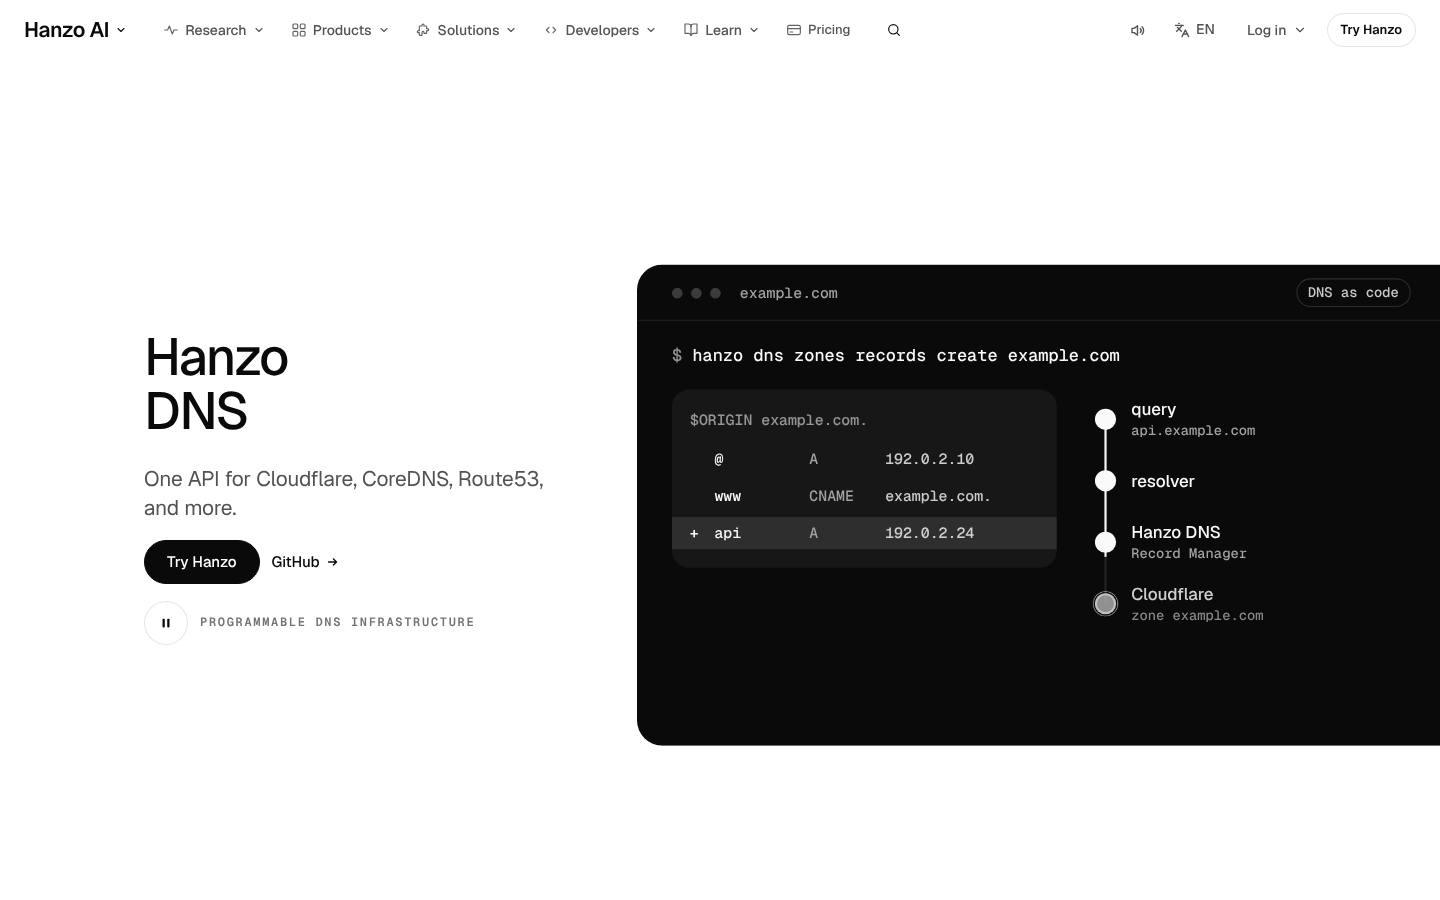
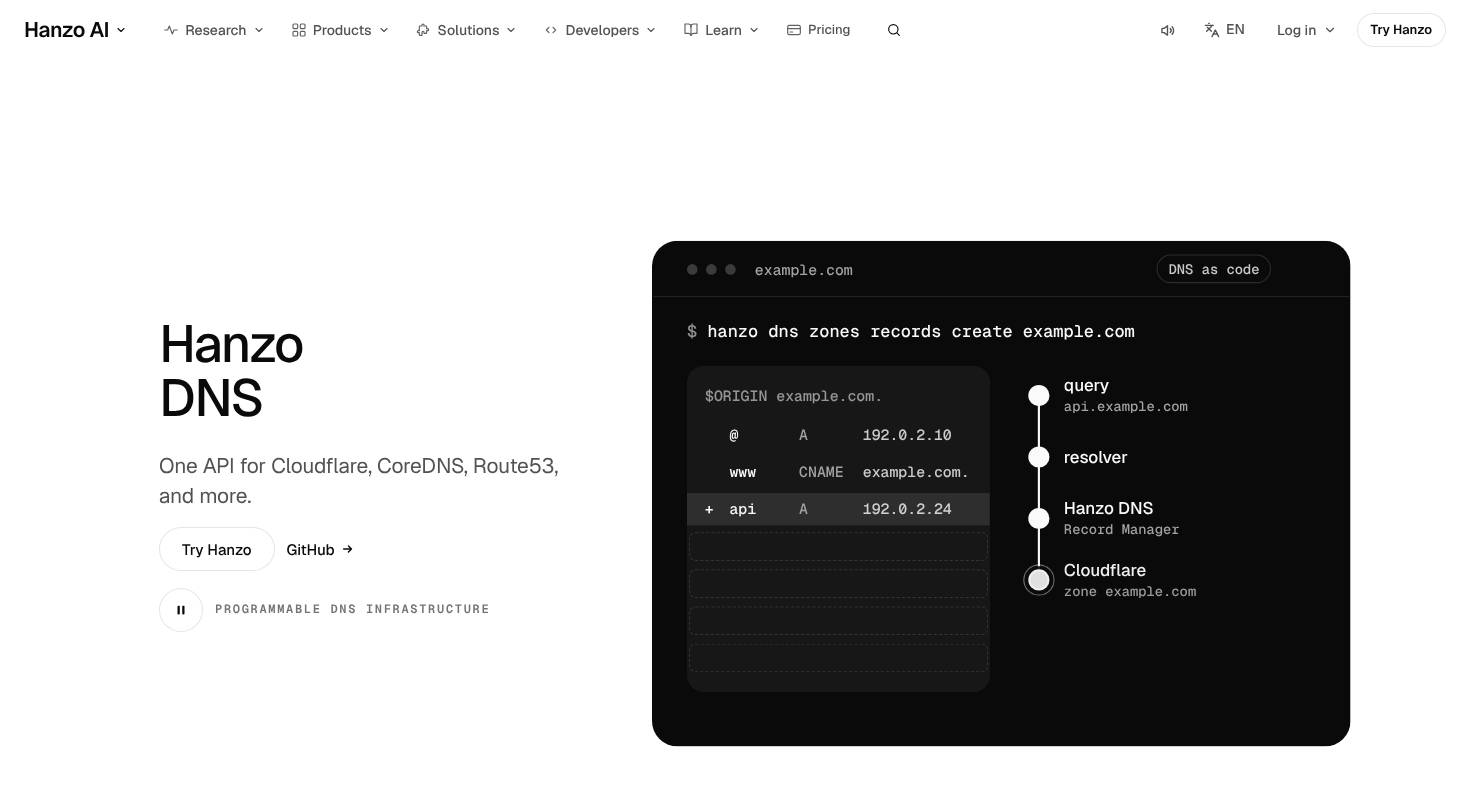
dns: Ready — phone layout shift fixed, live use-case pictures, pricing rhythm, outline close ask, hero inside the grid, four entrances
SafeClose.jsx (page-local, mine): exports Room and takes an enter prop.

Claude-Session: https://claude.ai/code/session_01P5YBdx19ukLv4B41yE4M3v

diff --git a/components/pages/cloud/Dns.css b/components/pages/cloud/Dns.css
@@ -300,3 +300,93 @@
   .dn-rr.add, .dn-ans, .dn-node, .dn-rail i, .dn-layer, .dn-pipe li, .dn-merge::before, .dn-merge .dn-rr, .dn-par-l i b, .dn-plan, .dn-pv, .dn-sc-cli .x-codeblock-l { transition: none !important; }
   .dn-node.now > i::after, .dn-wire b, .dn-dial.spin .dn-key { animation: none; }
 }
+
+/* ---------- round 2 (8 Nov) ---------- */
+/* the zone keeps its height: rows still to come hold their place, unseen */
+.dn-rr-wait > * { visibility: hidden; }
+.dn-rr-wait { outline: 1px dashed rgba(255, 255, 255, .12); outline-offset: -3px; border-radius: 8px; }
+/* the first screen sits inside the 1470 grid (the shared side stage bleeds the object to the edge) */
+@media (min-width: 900px) {
+  .dn > .kns.side .kns-obj-wrap { margin-right: 0; }
+  .dn > .kns { padding-bottom: clamp(44px, 5vw, 72px); }
+}
+/* less dead white between the sections after the room */
+.dn .kn-sec { padding-top: clamp(56px, 7vw, 116px); padding-bottom: clamp(56px, 7vw, 116px); }
+.dn .dn-price { padding-top: 0; }
+
+/* use cases: each row has its own small live picture */
+.dn-uses-l li { grid-template-columns: 64px minmax(0, 1fr) 168px; align-items: start; transition: background-color .3s var(--e-out); }
+.dn-uses-l li > .dn-ua { grid-column: 3; grid-row: 1 / span 2; align-self: center; }
+.dn-uses-l li > h3, .dn-uses-l li > p { grid-column: 2; }
+@media (hover: hover) { .dn-uses-l li:hover .dn-ua { transform: translateY(-3px); } .dn-uses-l li:hover > span.kn-fig { color: var(--ink); } }
+.dn-ua { position: relative; display: block; width: 168px; height: 104px; border-radius: 16px; background: var(--dn-f); overflow: hidden; transition: transform .4s var(--e-move); }
+/* 01: the CLI writes three records */
+.dn-ua-cli { display: flex; flex-direction: column; gap: 8px; padding: 14px 16px; background: #0a0a0a; }
+.dn-ua-cmd { display: flex; align-items: center; gap: 8px; }
+.dn-ua-cmd b { font: 497 13px/1 var(--mono); color: rgba(255, 255, 255, .55); }
+.dn-ua-cmd i { height: 6px; width: 70%; border-radius: 3px; background: #fafafa; transform-origin: 0 50%; }
+.dn-ua-rr { display: flex; align-items: center; gap: 6px; padding: 3px 6px; border-radius: 6px; background: rgba(255, 255, 255, .1); }
+.dn-ua-rr b { font: 606 12px/1 var(--mono); color: #fafafa; }
+.dn-ua-rr i { height: 4px; border-radius: 2px; background: rgba(255, 255, 255, .55); }
+.dn-ua-rr i:nth-of-type(1) { width: 30%; } .dn-ua-rr i:nth-of-type(2) { width: 46%; }
+.dn-ua-cli[data-on] .dn-ua-cmd i { animation: dn-ua-type 4.8s steps(12, end) infinite; }
+.dn-ua-cli[data-on] .dn-ua-rr { animation: dn-ua-land 4.8s var(--e-in) infinite; animation-delay: calc(var(--j) * .25s); }
+@keyframes dn-ua-type { 0% { transform: scaleX(0); } 20%, 100% { transform: none; } }
+@keyframes dn-ua-land { 0%, 22% { clip-path: inset(0 100% 0 0); } 34%, 92% { clip-path: inset(0); } 100% { clip-path: inset(0 0 0 100%); } }
+/* 02: three providers round one API, lit in turn */
+.dn-ua-ring svg { position: absolute; inset: 0; width: 100%; height: 100%; }
+.dn-ua-ring line { stroke: #d4d4d4; stroke-width: 2; }
+.dn-ua-ring > i { position: absolute; width: 16px; height: 16px; margin: -8px 0 0 -8px; border-radius: 50%; background: #fff; border: 2px solid var(--ink); }
+.dn-ua-ring > b { position: absolute; left: 50%; top: 50%; width: 40px; height: 24px; margin: -12px 0 0 -20px; border-radius: 8px; background: var(--ink); }
+.dn-ua-ring[data-on] line { animation: dn-ua-line 3s linear infinite; animation-delay: calc(var(--j) * 1s); }
+.dn-ua-ring[data-on] > i { animation: dn-ua-dot 3s linear infinite; animation-delay: calc(var(--j) * 1s); }
+@keyframes dn-ua-line { 0%, 33% { stroke: var(--ink); } 34%, 100% { stroke: #d4d4d4; } }
+@keyframes dn-ua-dot { 0%, 33% { background: var(--ink); } 34%, 100% { background: #fff; } }
+/* 03: many zones, a few lit at a time */
+.dn-ua-zones { display: grid; grid-template-columns: repeat(8, minmax(0, 1fr)); gap: 5px; padding: 14px; align-content: center; }
+.dn-ua-zones i { aspect-ratio: 1; border-radius: 4px; background: #d4d4d4; }
+.dn-ua-zones[data-on] i { animation: dn-ua-zone 4.8s var(--e-move) infinite; animation-delay: calc(var(--j) * .2s); }
+@keyframes dn-ua-zone { 0%, 12% { background: var(--ink); } 20%, 100% { background: #d4d4d4; } }
+
+/* pricing rhythm: the ink plan's figure is the big one, the others step down to medium (transform, so no box moves) */
+.dn-plan-p { transform-origin: 0 100%; transition: transform .4s var(--e-move); }
+.dn-plan.ink .dn-plan-p { transform: scale(1.375); }
+.dn-plan:not(.ink) .dn-plan-p { transform: scale(.66); }
+/* the close: Deploy to Cloud as an outline, so the header's ask is the one solid */
+.dn-close .knx-go.x-btn.solid { background: transparent; border-color: var(--ink); color: var(--ink); }
+@media (hover: hover) { .dn-close .knx-go.x-btn.solid:hover { background: var(--ink); color: #fff; } }
+/* Edge DNS: the layers still to come wait as dashed slots, so the picture is never an empty box */
+.js .dn-layer:not(.on) { opacity: 1; transform: none; background: transparent; border: 1.5px dashed #a3a3a3; color: transparent; }
+
+/* entrances (arrive.js: data-arm below the fold, data-in on arrival; JS off and reduced motion: the final state) */
+/* domino: the use-case rows tip into place one after another from a hinge at their foot */
+.dn-uses-l[data-enter] { perspective: 1200px; }
+.dn-uses-l[data-arm]:not([data-in]) li { transform: rotateX(-80deg); opacity: 0; }
+.dn-uses-l[data-in] li { transform-origin: 50% 100%; animation: dn-domino .7s cubic-bezier(.3, 1.4, .5, 1) both; animation-delay: calc(var(--k) * .16s); }
+@keyframes dn-domino { from { transform: rotateX(-80deg); opacity: 0; } 30% { opacity: 1; } to { transform: none; opacity: 1; } }
+/* swing-door: "What do you need?" swings in on its left hinge */
+.dn-fit[data-enter] { transform-origin: 0 50%; }
+.dn-price-h { perspective: 1400px; }
+.dn-fit[data-arm]:not([data-in]) { transform: rotateY(70deg); opacity: 0; }
+.dn-fit[data-in] { animation: dn-swing .9s cubic-bezier(.16, 1, .3, 1) both; }
+@keyframes dn-swing { from { transform: rotateY(70deg); opacity: 0; } 40% { opacity: 1; } to { transform: none; opacity: 1; } }
+/* drop-in: the four plans fall from above and settle with a small bounce */
+.dn-plans[data-arm]:not([data-in]) .dn-plan { transform: translateY(-90px); opacity: 0; }
+.dn-plans[data-in] .dn-plan { animation: dn-drop .8s both; }
+.dn-plans[data-in] .dn-plan:nth-child(2) { animation-delay: .08s; } .dn-plans[data-in] .dn-plan:nth-child(3) { animation-delay: .16s; } .dn-plans[data-in] .dn-plan:nth-child(4) { animation-delay: .24s; }
+@keyframes dn-drop { 0% { transform: translateY(-90px); opacity: 0; animation-timing-function: cubic-bezier(.5, 0, .9, .4); } 55% { transform: translateY(0); opacity: 1; animation-timing-function: cubic-bezier(.2, .8, .4, 1); } 75% { transform: translateY(-8px); } 100% { transform: none; opacity: 1; } }
+/* invert-flash: "Get DNS" arrives as a black/white inversion, then holds */
+.dn-close .knx-in[data-arm]:not([data-in]) { opacity: 0; }
+.dn-close .knx-in[data-in] { animation: dn-flash .7s steps(1, end) both; }
+@keyframes dn-flash { 0% { opacity: 1; filter: invert(1); } 14% { filter: none; } 28% { filter: invert(1); } 42%, 100% { opacity: 1; filter: none; } }
+
+@media (max-width: 899px) {
+  .dn-uses-l li { grid-template-columns: 44px minmax(0, 1fr); }
+  .dn-uses-l li > .dn-ua { grid-column: 2; grid-row: auto; margin-top: 8px; width: min(100%, 240px); }
+}
+@media (prefers-reduced-motion: reduce) {
+  .dn .kns-in, .dn .kns-obj-in, .dn .knl-t, .dn-ua *, .dn-ua { animation: none !important; }
+  .dn-plan-p, .dn-ua { transition: none !important; }
+}
+/* phones: the answer keeps the height of its longest (two-line) form, so a shorter answer never pulls the page up */
+@media (max-width: 899px) { .dn-ans { min-height: 88px; align-content: flex-start; } }

diff --git a/components/pages/cloud/Dns.jsx b/components/pages/cloud/Dns.jsx
@@ -12,6 +12,10 @@
    Supporting: six pinned chapters whose pictures rise in from below (providers round one API, a query fanned out in
    parallel, the CLI lit a step at a time, the API in a pipeline, the DNSSEC key turning, CoreDNS with Hanzo plugins),
    and packets crossing the control plane in the graphite room (with its own pause).
+   Use cases: each row carries a small live picture of a scene the page already draws (the CLI writing records, the
+   providers round one API, many zones).
+   Entrances (docs/MOTION-MAP.md, arrive.js arms them below the fold): domino (the use-case rows), swing-door (What do
+   you need?), drop-in (the plans), invert-flash ("Get DNS").
    Motion kinds: idle (the zone cycle, packets), time (the command typing, the path walk), state (needs light a plan),
    arrival (title cut-in), scroll (the chapters, the Stage settle, the room opening).
    Beyond: "What do you need?" - press the needs you have (unlimited zones, DNSSEC, role-based access, Edge DNS...) and
@@ -23,8 +27,8 @@ import { EASE, useCalm } from '../../ui';
 import { Cta, CodeBlock } from '../../kit';
 import KeynoteStage, { useStagePause } from './SafeStage';
 import KeynoteChapters from '../../v2/KeynoteChapters';
-import KeynoteRoom from '../../v2/KeynoteRoom';
-import KeynoteClose from '../../v2/KeynoteClose';
+import KeynoteClose, { Room as KeynoteRoom } from './SafeClose';
+import { useArrivals } from './arrive';
 import KeynoteLines from '../../v2/KeynoteLines';
 import './Dns.css';
 
@@ -76,6 +80,8 @@ function Zone() {
           {ZONE.map(([n, t, v]) => <p key={n} className="dn-rr"><span className="g"> </span><b>{n}</b><em>{t}</em><span>{v}</span></p>)}
           {RECS.slice(0, r).map(([n, t, v]) => <p key={n} className="dn-rr"><span className="g"> </span><b>{n}</b><em>{t}</em><span>{v}</span></p>)}
           <p key={'add' + r} className={'dn-rr add' + (s >= 1 ? ' in' : '')}><span className="g">+</span><b>{name}</b><em>{type}</em><span>{val}</span></p>
+          {/* the rows still to come keep their place, so the file never grows and nothing below it moves */}
+          {RECS.slice(r + 1).map(([n]) => <p key={'r' + n} className="dn-rr dn-rr-wait"><span className="g"> </span><b>{n}</b></p>)}
         </div>
         <div className="dn-path" aria-hidden="true">
           <div className="dn-nodes">
@@ -291,6 +297,44 @@ const USES = [
   ['Domain Portfolio Management', 'Manage hundreds of domains across multiple registrars and DNS providers from one unified interface.'],
 ];
 
+/* each use case is a scene the page already draws, small: the CLI writing records, the providers round one API, many
+   zones lighting a few at a time. They play while the row is seen (reduced motion: their last frame). */
+function UseArt({ k, on }) {
+  if (k === 0) return (
+    <span className="dn-ua dn-ua-cli" data-on={on ? '' : undefined}>
+      <span className="dn-ua-cmd"><b>$</b><i /></span>
+      {[0, 1, 2].map((j) => <span key={j} className="dn-ua-rr" style={{ '--j': j }}><b>+</b><i /><i /></span>)}
+    </span>
+  );
+  if (k === 1) return (
+    <span className="dn-ua dn-ua-ring" data-on={on ? '' : undefined}>
+      <svg viewBox="0 0 168 104">
+        {[[30, 22], [138, 22], [84, 92]].map(([x, y], j) => <line key={j} x1="84" y1="52" x2={x} y2={y} style={{ '--j': j }} />)}
+      </svg>
+      {[[30, 22], [138, 22], [84, 92]].map(([x, y], j) => <i key={j} style={{ left: x / 1.68 + '%', top: y / 1.04 + '%', '--j': j }} />)}
+      <b />
+    </span>
+  );
+  return (
+    <span className="dn-ua dn-ua-zones" data-on={on ? '' : undefined}>
+      {Array.from({ length: 24 }, (_, j) => <i key={j} style={{ '--j': (j * 7) % 24 }} />)}
+    </span>
+  );
+}
+function Use({ i, t, d }) {
+  const ref = useRef(null);
+  const seen = useInView(ref, { amount: 0.6 });
+  const calm = useCalm();
+  return (
+    <li ref={ref} style={{ '--k': i }}>
+      <span className="kn-fig">{String(i + 1).padStart(2, '0')}</span>
+      <h3 className="dn-h3">{t}</h3>
+      <p>{d}</p>
+      <UseArt k={i} on={seen && !calm} />
+    </li>
+  );
+}
+
 /* ---------- pricing, with Beyond: what do you need? ---------- */
 const PLANS = [
   ['Starter', 'Usage-based pricing for getting started', ['Up to 5 zones', '2 DNS providers', 'CLI and API access', 'Volume-based query pricing'], 'Talk to us', false, false],
@@ -316,7 +360,7 @@ function Pricing() {
             <KeynoteLines className="kn-headline" lines={['Start free.', 'Scale as you grow.']} />
             <p className="kn-kick">Pricing</p>
           </div>
-          <div className="dn-fit">
+          <div className="dn-fit" data-enter="swing">
             <p className="dn-fit-h">What do you need?</p>
             <div className="dn-fit-chips" role="group" aria-label="What do you need?">
               {NEEDS.map(([t], i) => <button key={t} type="button" data-sound="tick" aria-pressed={need.includes(i)} onClick={() => pick(i)}>{t}</button>)}
@@ -324,7 +368,7 @@ function Pricing() {
             <p className="dn-fit-a" aria-live="polite">{need.length ? <><Down /><b>{PLANS[fit][0]}</b></> : null}</p>
           </div>
         </div>
-        <div className={'dn-plans' + (need.length ? ' picking' : '')}>
+        <div className={'dn-plans' + (need.length ? ' picking' : '')} data-enter="drop">
           {PLANS.map(([n, d, pts, cta, pop, month], i) => (
             <div key={n} className={'dn-plan' + (i === ink ? ' ink' : '') + (need.length && i < fit ? ' short' : '')}>
               <div className="dn-plan-top">
@@ -344,8 +388,10 @@ function Pricing() {
 }
 
 export default function Dns() {
+  const root = useRef(null);
+  useArrivals(root);
   return (
-    <main className="kn dn">
+    <main className="kn dn" ref={root}>
       <KeynoteStage
         look="side"
         kick="Programmable DNS Infrastructure"
@@ -381,8 +427,8 @@ export default function Dns() {
             <KeynoteLines className="kn-headline" lines="From startups to enterprise, Hanzo DNS scales with your infrastructure" />
             <p className="kn-kick">Use Cases</p>
           </div>
-          <ol className="dn-uses-l">
-            {USES.map(([t, d], i) => <li key={t}><span className="kn-fig">{String(i + 1).padStart(2, '0')}</span><h3 className="dn-h3">{t}</h3><p>{d}</p></li>)}
+          <ol className="dn-uses-l" data-enter="domino">
+            {USES.map(([t, d], i) => <Use key={t} i={i} t={t} d={d} />)}
           </ol>
         </div>
       </section>
@@ -391,6 +437,7 @@ export default function Dns() {
 
       <KeynoteClose
         light
+        enter="flash"
         className="dn-close"
         name="DNS"
         tag="DNS as code"

diff --git a/components/pages/cloud/SafeClose.jsx b/components/pages/cloud/SafeClose.jsx
@@ -2,7 +2,8 @@
 /* SafeClose: v2/KeynoteClose (and its KeynoteRoom) with one change, so the pages that use it hydrate cleanly under
    reduced motion (docs/requests/reduced-motion-hydration.md). KeynoteRoom reads motion's useReducedMotion() while
    rendering (null on the server, true on the first client render), so the room's clip-path differs and React logs a
-   hydration error. This copy reads the kit's useCalm() instead. Same props, same markup, same CSS as KeynoteClose.
+   hydration error. This copy reads the kit's useCalm() instead. Same props, same markup, same CSS as KeynoteClose,
+   plus enter: a data-enter name for arrive.js on the block.
    Used by /crawl /dashboards /datastore /dns. Delete it and import v2/KeynoteClose again once the shared file is fixed. */
 import { useRef } from 'react';
 import { motion, useScroll, useTransform, useMotionTemplate } from 'motion/react';
@@ -13,7 +14,8 @@ import { useWide } from '../../v2/KeynoteChapters';
 import '../../v2/Keynote.css';
 import '../../v2/KeynoteClose.css';
 
-function Room({ children, className = '', from = [6, 7, 24], tone = '#171717', id }) {
+/* the dark room on its own (v2/KeynoteRoom with useCalm), for a page's graphite section */
+export function Room({ children, className = '', from = [6, 7, 24], tone = '#171717', id }) {
   const ref = useRef(null);
   const calm = useCalm();
   const wide = useWide();
@@ -32,9 +34,9 @@ function Room({ children, className = '', from = [6, 7, 24], tone = '#171717', i
 
 const Gh = () => <svg viewBox="0 0 16 16" width="14" height="14" fill="currentColor" aria-hidden="true"><path d="M8 0C3.58 0 0 3.58 0 8c0 3.54 2.29 6.53 5.47 7.59.4.07.55-.17.55-.38 0-.19-.01-.82-.01-1.49-2.01.37-2.53-.49-2.69-.94-.09-.23-.48-.94-.82-1.13-.28-.15-.68-.52-.01-.53.63-.01 1.08.58 1.23.82.72 1.21 1.87.87 2.33.66.07-.52.28-.87.51-1.07-1.78-.2-3.64-.89-3.64-3.95 0-.87.31-1.59.82-2.15-.08-.2-.36-1.02.08-2.12 0 0 .67-.21 2.2.82.64-.18 1.32-.27 2-.27.68 0 1.36.09 2 .27 1.53-1.04 2.2-.82 2.2-.82.44 1.1.16 1.92.08 2.12.51.56.82 1.27.82 2.15 0 3.07-1.87 3.75-3.65 3.95.29.25.54.73.54 1.48 0 1.07-.01 1.93-.01 2.2 0 .21.15.46.55.38A8.013 8.013 0 0016 8c0-4.42-3.58-8-8-8z" /></svg>;
 
-function Body({ name, tag, lead, prompt, api, cta = 'close', license = 'Apache-2.0', repo = ['hanzoai', 'https://github.com/hanzoai'], stars, deploy = 'https://platform.hanzo.ai/deploy', self, children, light }) {
+function Body({ name, tag, lead, prompt, api, cta = 'close', license = 'Apache-2.0', repo = ['hanzoai', 'https://github.com/hanzoai'], stars, deploy = 'https://platform.hanzo.ai/deploy', self, children, light, enter }) {
   return (
-    <div className="kn-wrap knx-in">
+    <div className="kn-wrap knx-in" data-enter={enter}>
       <KeynoteLines as="h2" className="kn-display md knx-h" lines={`Get ${name}`} />
       {lead && <p className="kn-kick knx-lead">{lead}</p>}
       <div className="kn-grid knx-g">

diff --git a/docs/review/dns.md b/docs/review/dns.md
@@ -1,4 +1,5 @@
 # /dns — James-eye review
+Ready: 2026-11-08 phone CLS 0.18 → 0.006 (zone rows reserved as faint slots, answer height reserved); each use case carries a small live picture (CLI writing records, providers round one API, many zones); gaps tightened; the picked plan's figure is the big one, others medium; close Deploy to Cloud as an outline; hero zone inside the 1470 grid; Edge DNS waits as dashed slots, never empty; entrances domino/swing-door/drop-in/invert-flash; graphite room and close via page-local SafeClose (0 hydration errors under reduced motion, 0 animations); taste OK, parity 113/113 + 4/4, unique OK, check 0 errors/0 overlaps/no h-scroll at 1470 and 375.
 7 Nov, round 1 of this critic. Walked it moving at 1470x801 and 375x812 (phone: isMobile, hasTouch) with Playwright on :4182. At each size I took frames at 0, 1 and 3 s with no input. Then I scrolled one screen at a time with a 1.5 s dwell (a wheel pass, plus a pass stepping exactly one viewport). On desktop I hovered and pressed the "What do you need?" needs. I measured CLS with its sources, horizontal overflow and console output.
 
 Verdict: 7/10
